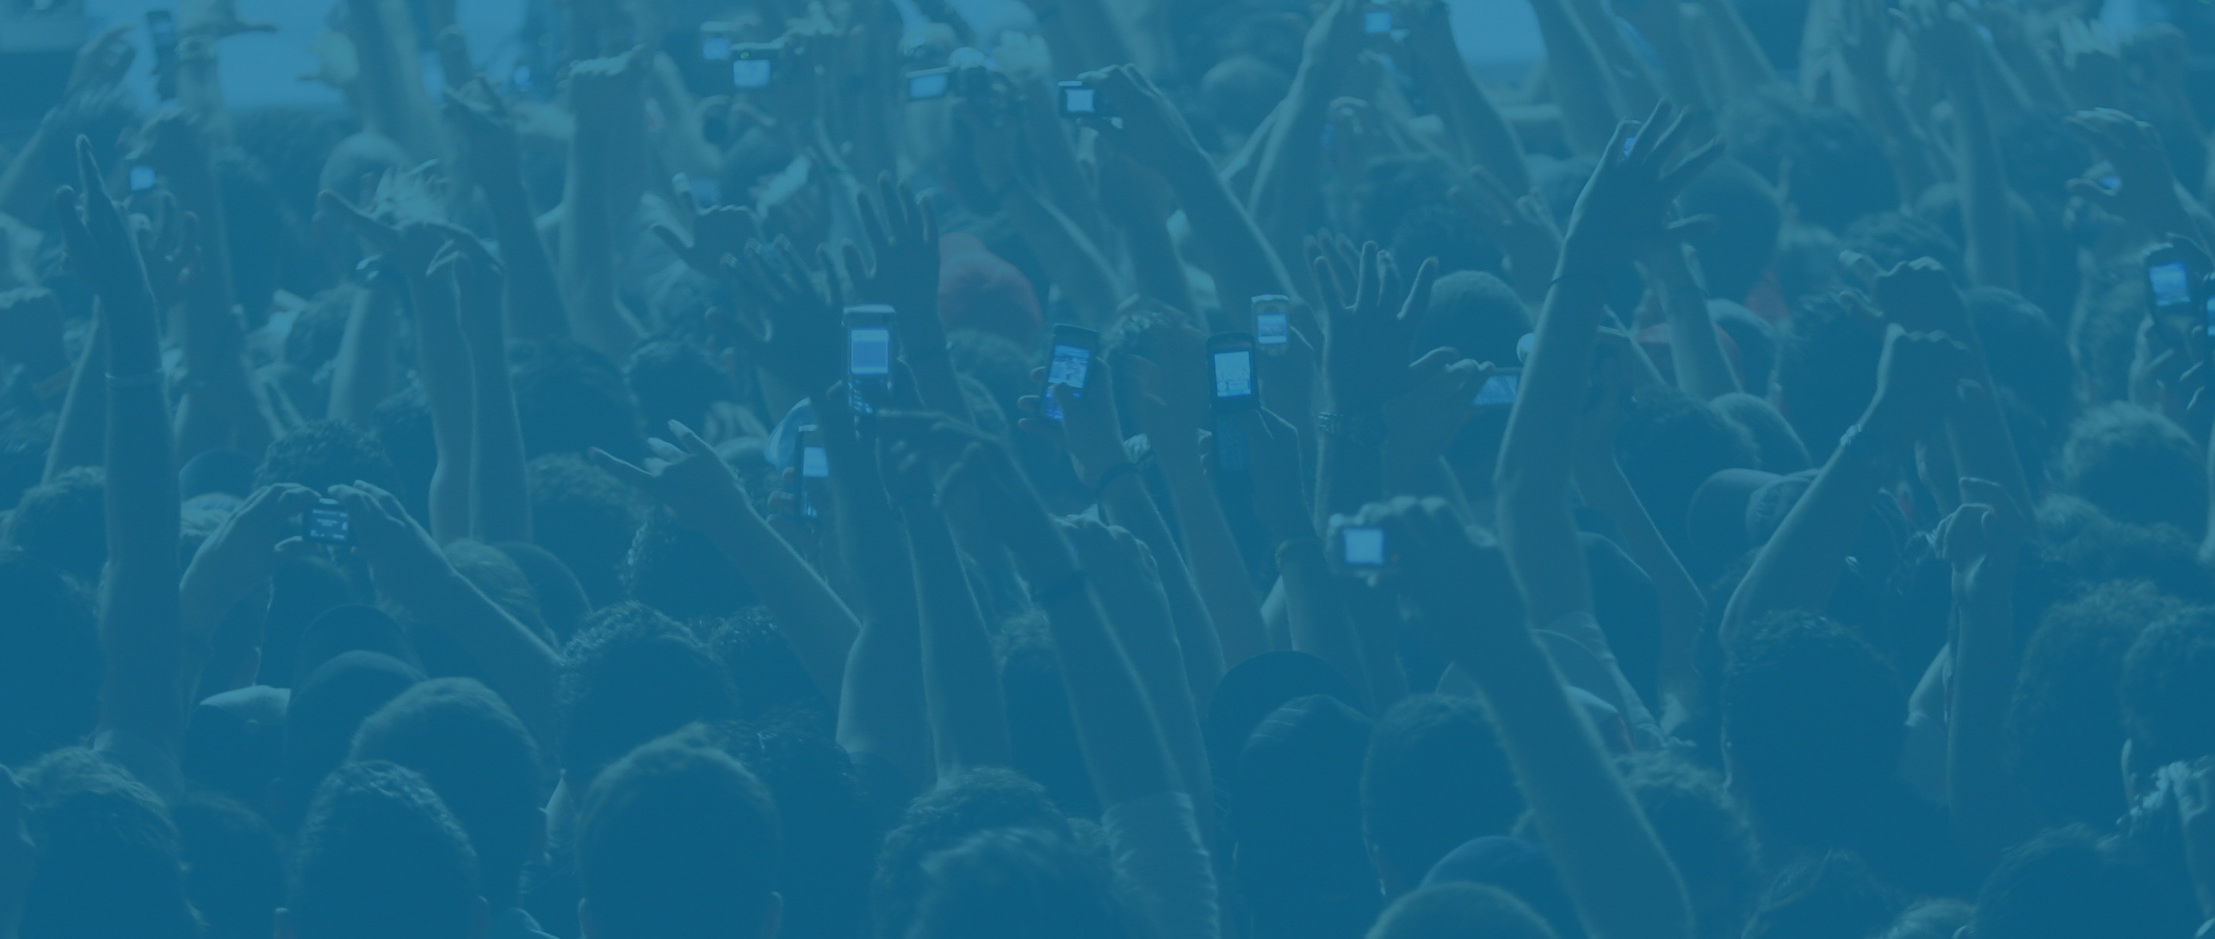
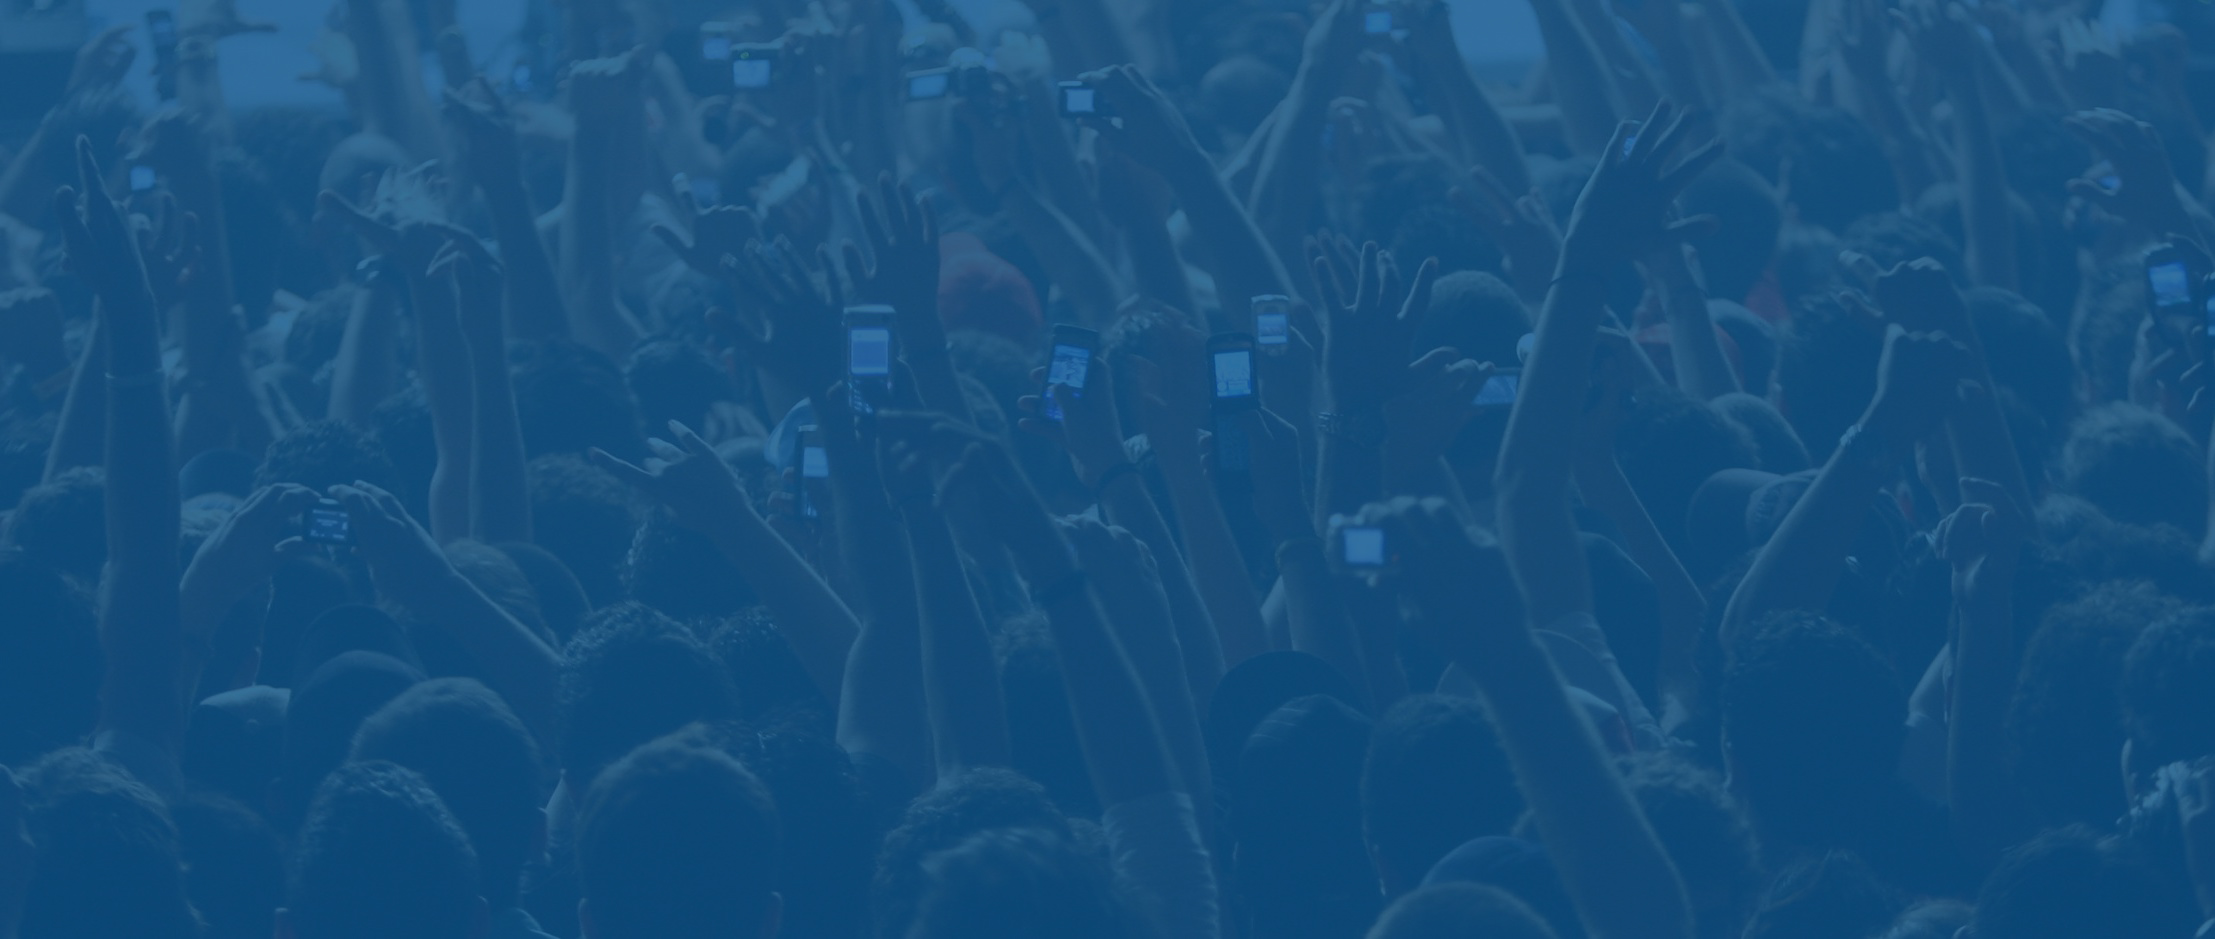
Landing page css

diff --git a/index.html b/index.html
@@ -18,7 +18,6 @@
 	<link rel="stylesheet" href="css/landing.css">
 
 </head>
-test
 <body class="theme-invert">
 
 <nav class="mainmenu">
@@ -26,7 +25,7 @@ test
 		<div class="dropdown">
 			<button type="button" class="navbar-toggle" data-toggle="dropdown"><span class="icon-bar"></span> <span class="icon-bar"></span> <span class="icon-bar"></span> </button>
 			<!-- <a data-toggle="dropdown" href="#">Dropdown trigger</a> -->
-			<ul class="dropdown-menu" role="menu" aria-labelledby="dLabel">
+			<ul class="dropdown-menu landing-menu" role="menu" aria-labelledby="dLabel">
 				<li><a href="#head" class="active">Home</a></li>
 				<li><a href="#about">About</a></li>
 				<li><a href="#contact">Contact</a></li>
@@ -74,13 +73,13 @@ test
 <section class="section" id="about">
 	<div class="container">
 
-		<h2 class="text-center title">About me</h2>
+		<h2 class="text-center title text-shadows">About me</h2>
 		<div class="row">
-			<div class="col-sm-4 col-sm-offset-2">
+			<div class="col-sm-4 col-sm-offset-2 text-color">
 				<h5><strong>Where's my lorem ipsum?<br></strong></h5>
 				<p>Well, here it is: Lorem ipsum dolor sit amet, consectetur adipisicing elit. Dolorum, ullam, ducimus, eaque, ex autem est dolore illo similique quasi unde sint rerum magnam quod amet iste dolorem ad laudantium molestias enim quibusdam inventore totam fugit eum iusto ratione alias deleniti suscipit modi quis nostrum veniam fugiat debitis officiis impedit ipsum natus ipsa. Doloremque, id, at, corporis, libero laborum architecto mollitia molestiae maxime aut deserunt sed perspiciatis quibusdam praesentium consectetur in sint impedit voluptates! Deleniti, sequi voluptate recusandae facere nostrum?</p>
 			</div>
-			<div class="col-sm-4">
+			<div class="col-sm-4 text-color">
 				<h5><strong>More, more lipsum!<br></strong></h5>
 				<p>Tempore, eos, voluptatem minus commodi error aut eaque neque consequuntur optio nesciunt quod quibusdam. Ipsum, voluptatibus, totam, modi perspiciatis repudiandae odio ad possimus molestias culpa optio eaque itaque dicta quod cupiditate reiciendis illo illum aspernatur ducimus praesentium quae porro alias repellat quasi cum fugiat accusamus molestiae exercitationem amet fugit sint eligendi omnis adipisci corrupti. Aspernatur.</p>
 			</div>
@@ -93,10 +92,10 @@ test
 <section class="section" id="contact">
 	<div class="container">
 
-		<h2 class="text-center title">Get in touch</h2>
+		<h2 class="text-center title text-shadows">Get in touch</h2>
 
 		<div class="row">
-			<div class="col-sm-8 col-sm-offset-2 text-center">
+			<div class="col-sm-8 col-sm-offset-2 text-center text-color">
 				<p class="lead">Have a question about this template, or want to suggest a new feature?</p>
 				<p>Feel free to email me, or drop me a line in Twitter!</p>
 				<p><b>gt@gettemplate.com</b><br><br></p>

diff --git a/css/landing.css b/css/landing.css
@@ -17,7 +17,7 @@ body {
 	/*font-family: Helvetica, Arial, sans-serif;*/
 	font-family: "Viga", sans-serif;
 	color:#fff;
-	color:rgba(255,255,255,.8);
+	/**color:rgba(255,255,255,.8);*/
 	font-weight: normal;
 }
 
@@ -255,8 +255,11 @@ a:hover, a:active { color:#fff; text-decoration: underline; }
 
 
 
-
-
+/** Landing page colors */
+.text-color h5,
+.text-color p{
+    color: #d3d3d3;
+}
 
 
 
@@ -286,8 +289,7 @@ a:hover, a:active { color:#fff; text-decoration: underline; }
 /*                   Theme: text shadows                   */
 /***********************************************************/
 .text-shadows {
-	text-shadow:0 3px 5px rgba(0,0,0,.4);
-	text-shadow:0 3px 5px rgba(0,0,0,.4);
+	text-shadow:0 3px 5px rgba(0,0,0,.5);
 }
 .text-shadows .title,
 .text-shadows .subtitle,
@@ -331,9 +333,9 @@ a:hover, a:active { color:#fff; text-decoration: underline; }
 .theme-invert .navbar-toggle .icon-bar {
   background: #F0F8FF;
 }
-.theme-invert .mainmenu .dropdown-menu a {
+/**.theme-invert .mainmenu .dropdown-menu a {
 	color:#000;
-}
+}*/
 .theme-invert .mainmenu .dropdown-menu a:hover {
 	background:rgba(0,0,0,.1);
 	color:#000;
@@ -372,6 +374,7 @@ a:hover, a:active { color:#fff; text-decoration: underline; }
 .thumbnail .caption {
 	color: inherit;
 }
+
 
 
 
